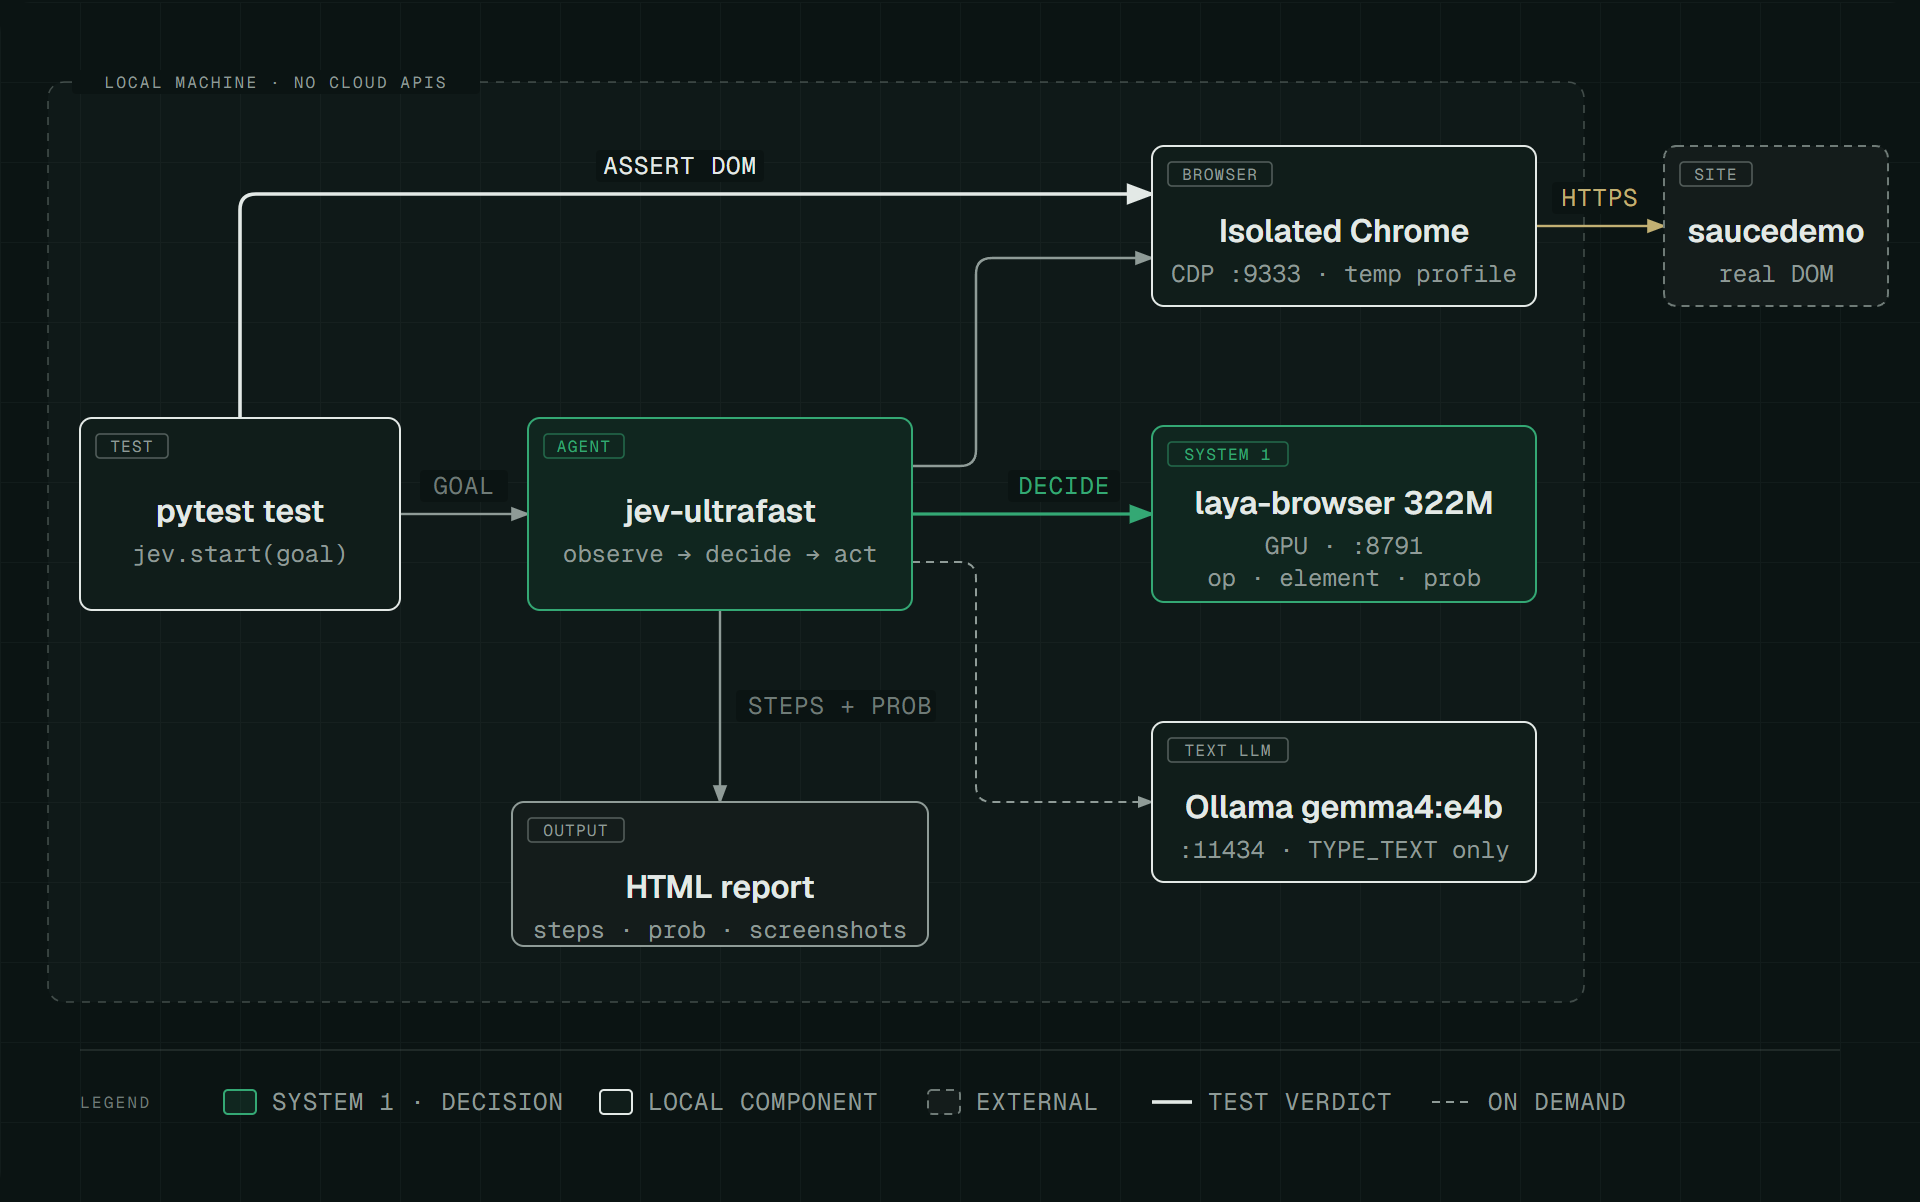
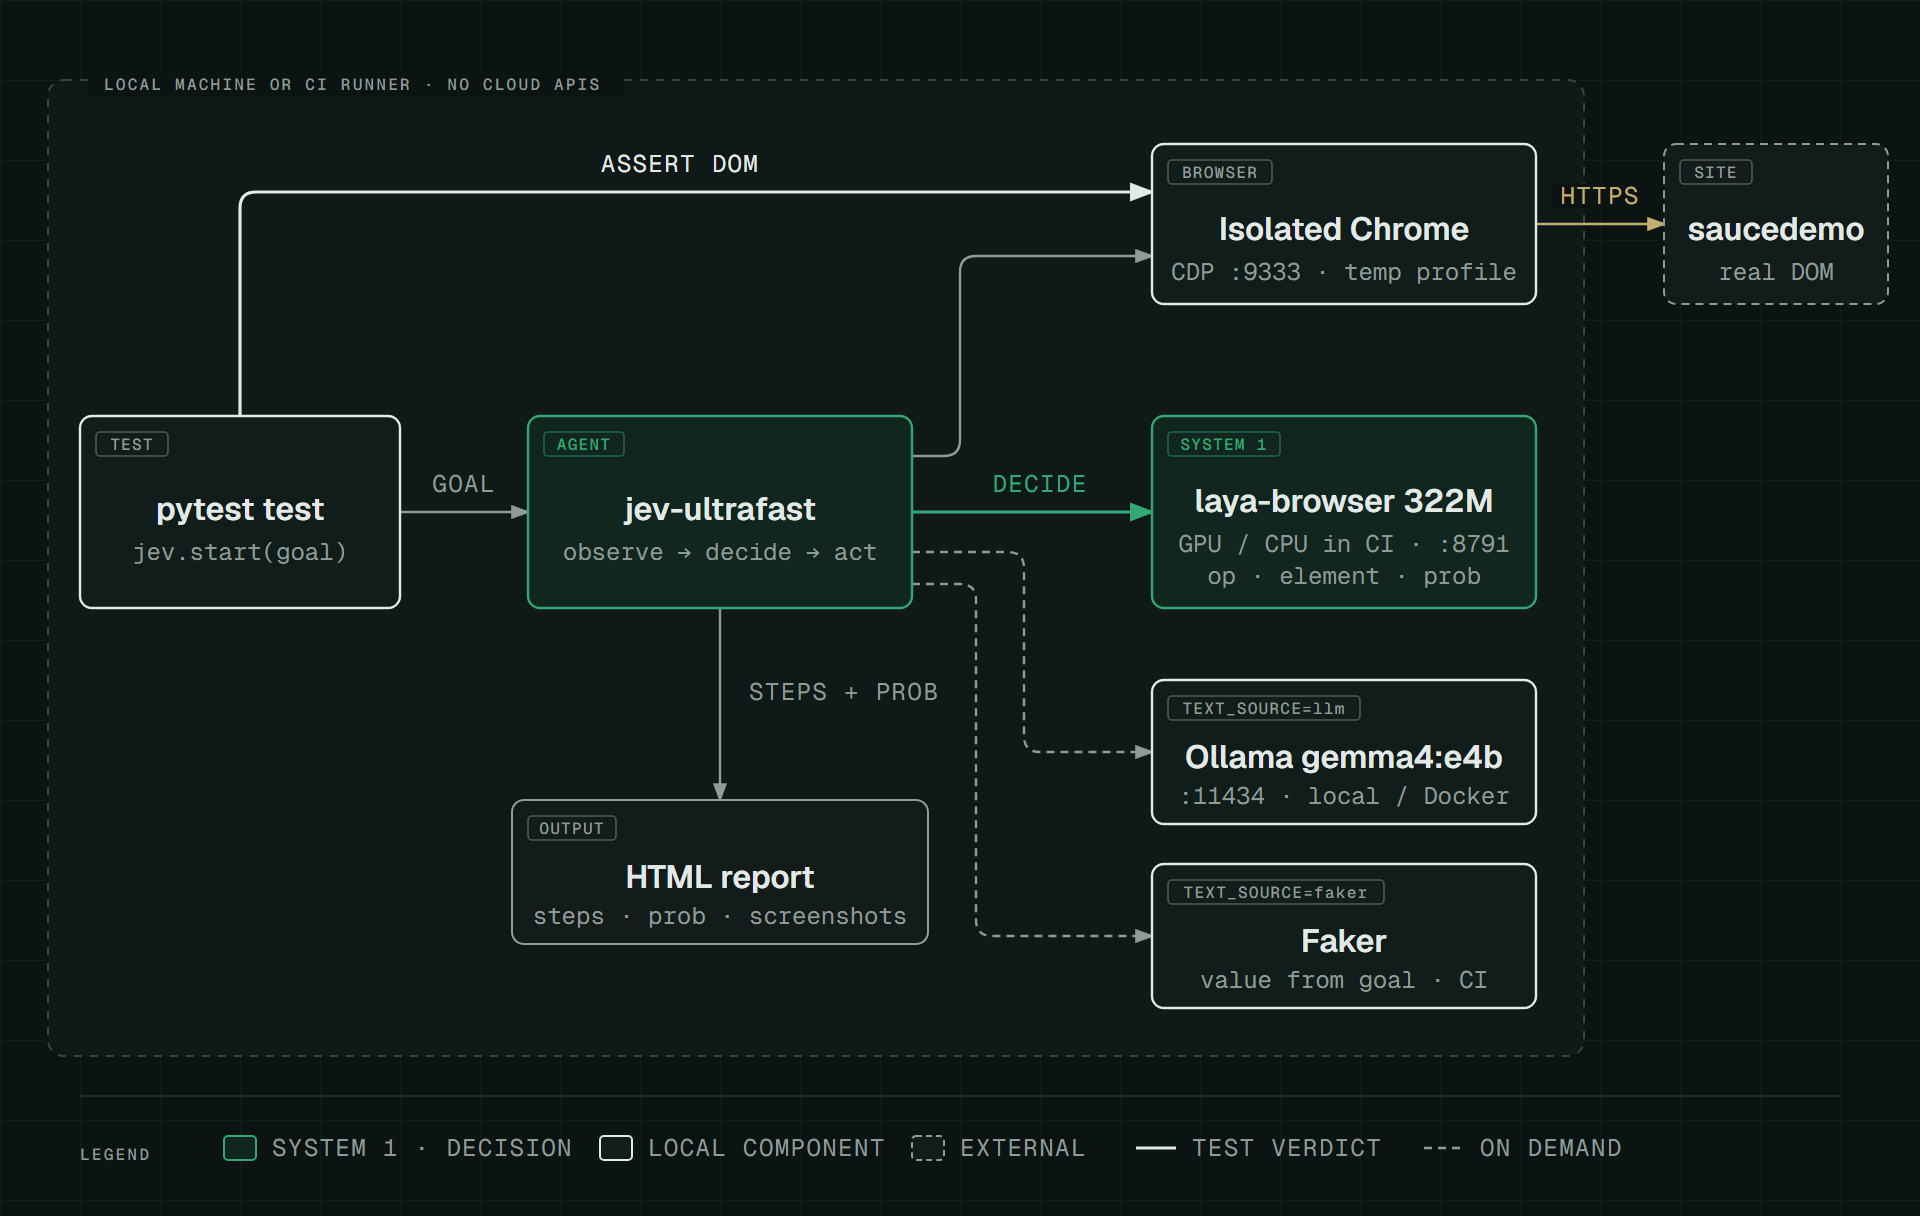
docs: architecture diagram shows the gemma / Faker split and CPU in CI
Adds docs/media/architecture.html, the source of both PNGs.

diff --git a/docs/media/architecture.html b/docs/media/architecture.html
@@ -1,0 +1,190 @@
+<!DOCTYPE html>
+<!-- Source of architecture.png (preferredColorScheme=1) and architecture-dark.png (preferredColorScheme=0):
+     chrome --headless --hide-scrollbars --force-device-scale-factor=2 --window-size=960,608 --virtual-time-budget=5000
+     --blink-settings=preferredColorScheme=1 --screenshot=architecture.png architecture.html -->
+<!-- The virtual time budget lets the Google Fonts load before the screenshot. -->
+<html lang="en">
+<head>
+<meta charset="utf-8">
+<title>jev-ultrafast UI tests: architecture</title>
+<link href="https://fonts.googleapis.com/css2?family=Geist:wght@400;500;600&family=Geist+Mono:wght@400;500;600&display=swap" rel="stylesheet">
+<style>
+  :root {
+    --paper: #f3f6f4; --grid: #e9ecea; --frame: #eef1ef; --frame-stroke: #b9c0bd;
+    --ink: #0b1413; --muted: #4d5a55; --soft: #6b7772;
+    --node: #ffffff; --ext: #e9edeb; --accent: #1f7a50; --accent-tint: #e0ebe5; --link: #7d6a2c;
+  }
+  @media (prefers-color-scheme: dark) {
+    :root {
+      --paper: #0b1413; --grid: #121c1b; --frame: #0f1918; --frame-stroke: #3a4543;
+      --ink: #e3e9e6; --muted: #8f9b97; --soft: #7d8985;
+      --node: #101d1a; --ext: #141c1b; --accent: #34a874; --accent-tint: #10261f; --link: #c2b073;
+    }
+  }
+  html, body { margin: 0; background: var(--paper); }
+  svg { display: block; width: 960px; height: 608px; }
+  .name { font: 600 16px 'Geist', sans-serif; fill: var(--ink); text-anchor: middle; }
+  .sub { font: 400 12px 'Geist Mono', monospace; fill: var(--muted); text-anchor: middle; }
+  .tag { font: 500 8px 'Geist Mono', monospace; fill: var(--muted); letter-spacing: 0.08em; text-anchor: middle; }
+  .tag-box { fill: none; stroke: var(--muted); stroke-opacity: 0.5; stroke-width: 0.8; }
+  .label { font: 400 12px 'Geist Mono', monospace; fill: var(--muted); letter-spacing: 0.06em; text-anchor: middle; }
+  .mask { fill: var(--frame); }
+  .eyebrow { font: 500 8px 'Geist Mono', monospace; fill: var(--muted); letter-spacing: 0.14em; }
+  .legend { font: 400 12px 'Geist Mono', monospace; fill: var(--muted); letter-spacing: 0.06em; }
+  .wire { fill: none; stroke: var(--muted); stroke-width: 1.2; }
+  .on-demand { stroke-dasharray: 4 3; }
+  .focal .tag, .focal .label { fill: var(--accent); }
+  .focal .tag-box { stroke: var(--accent); }
+</style>
+</head>
+<body>
+<svg viewBox="0 0 960 608" xmlns="http://www.w3.org/2000/svg" role="img"
+     aria-labelledby="architecture-title architecture-desc">
+  <title id="architecture-title">jev-ultrafast UI tests: architecture</title>
+  <desc id="architecture-desc">A pytest test gives jev-ultrafast a goal; the agent asks laya-browser for every decision,
+    gets field text from Ollama gemma4:e4b locally or from Faker in CI (TEXT_SOURCE), acts in an isolated Chrome on
+    saucedemo, and writes steps with probabilities to the HTML report; the test asserts on the real DOM.</desc>
+  <defs>
+    <pattern id="architecture-grid" width="40" height="40" patternUnits="userSpaceOnUse">
+      <path d="M40 0 H0 V40" fill="none" stroke="var(--grid)" stroke-width="1"/>
+    </pattern>
+    <marker id="architecture-arrow" markerWidth="8" markerHeight="6" refX="7" refY="3" orient="auto">
+      <polygon points="0 0, 8 3, 0 6" fill="var(--muted)"/>
+    </marker>
+    <marker id="architecture-arrow-ink" markerWidth="8" markerHeight="6" refX="7" refY="3" orient="auto">
+      <polygon points="0 0, 8 3, 0 6" fill="var(--ink)"/>
+    </marker>
+    <marker id="architecture-arrow-accent" markerWidth="8" markerHeight="6" refX="7" refY="3" orient="auto">
+      <polygon points="0 0, 8 3, 0 6" fill="var(--accent)"/>
+    </marker>
+    <marker id="architecture-arrow-link" markerWidth="8" markerHeight="6" refX="7" refY="3" orient="auto">
+      <polygon points="0 0, 8 3, 0 6" fill="var(--link)"/>
+    </marker>
+  </defs>
+
+  <rect width="960" height="608" fill="var(--paper)"/>
+  <rect width="960" height="608" fill="url(#architecture-grid)"/>
+
+  <!-- Boundary: everything below runs on one machine, a laptop or a CI runner -->
+  <rect x="24" y="40" width="768" height="488" rx="8" fill="var(--frame)" stroke="var(--frame-stroke)"
+        stroke-width="1" stroke-dasharray="4 4"/>
+  <rect x="44" y="36" width="268" height="12" fill="var(--paper)"/>
+  <text class="eyebrow" x="52" y="45">LOCAL MACHINE OR CI RUNNER · NO CLOUD APIS</text>
+
+  <!-- Connectors first, so the boxes paint over their ends -->
+  <path class="wire" d="M120,208 V104 Q120,96 128,96 H576" style="stroke: var(--ink); stroke-width: 1.6"
+        marker-end="url(#architecture-arrow-ink)"/>
+  <rect class="mask" x="296" y="76" width="88" height="12"/>
+  <text class="label" x="340" y="86" style="fill: var(--ink)">ASSERT DOM</text>
+
+  <path class="wire" d="M200,256 H264" marker-end="url(#architecture-arrow)"/>
+  <rect class="mask" x="212" y="236" width="40" height="12"/>
+  <text class="label" x="232" y="246">GOAL</text>
+
+  <path class="wire" d="M456,228 H472 Q480,228 480,220 V136 Q480,128 488,128 H576" marker-end="url(#architecture-arrow)"/>
+
+  <g class="focal">
+    <path class="wire" d="M456,256 H576" style="stroke: var(--accent); stroke-width: 1.6"
+          marker-end="url(#architecture-arrow-accent)"/>
+    <rect class="mask" x="492" y="236" width="56" height="12"/>
+    <text class="label" x="520" y="246">DECIDE</text>
+  </g>
+
+  <!-- TEXT_SOURCE picks one of the two text sources per run -->
+  <path class="wire on-demand" d="M456,276 H504 Q512,276 512,284 V368 Q512,376 520,376 H576"
+        marker-end="url(#architecture-arrow)"/>
+  <path class="wire on-demand" d="M456,292 H480 Q488,292 488,300 V460 Q488,468 496,468 H576"
+        marker-end="url(#architecture-arrow)"/>
+
+  <path class="wire" d="M360,304 V400" marker-end="url(#architecture-arrow)"/>
+  <rect class="mask" x="372" y="340" width="100" height="12"/>
+  <text class="label" x="422" y="350">STEPS + PROB</text>
+
+  <path class="wire" d="M768,112 H832" style="stroke: var(--link)" marker-end="url(#architecture-arrow-link)"/>
+  <rect x="776" y="92" width="48" height="12" fill="var(--paper)"/>
+  <text class="label" x="800" y="102" style="fill: var(--link)">HTTPS</text>
+
+  <!-- Nodes -->
+  <g>
+    <rect x="40" y="208" width="160" height="96" rx="6" fill="var(--node)" stroke="var(--ink)" stroke-width="1.2"/>
+    <rect class="tag-box" x="48" y="216" width="36" height="12" rx="2"/>
+    <text class="tag" x="66" y="225">TEST</text>
+    <text class="name" x="120" y="260">pytest test</text>
+    <text class="sub" x="120" y="280">jev.start(goal)</text>
+  </g>
+
+  <g class="focal">
+    <rect x="264" y="208" width="192" height="96" rx="6" fill="var(--accent-tint)" stroke="var(--accent)" stroke-width="1.2"/>
+    <rect class="tag-box" x="272" y="216" width="40" height="12" rx="2"/>
+    <text class="tag" x="292" y="225">AGENT</text>
+    <text class="name" x="360" y="260">jev-ultrafast</text>
+    <text class="sub" x="360" y="280">observe → decide → act</text>
+  </g>
+
+  <g>
+    <rect x="576" y="72" width="192" height="80" rx="6" fill="var(--node)" stroke="var(--ink)" stroke-width="1.2"/>
+    <rect class="tag-box" x="584" y="80" width="52" height="12" rx="2"/>
+    <text class="tag" x="610" y="89">BROWSER</text>
+    <text class="name" x="672" y="120">Isolated Chrome</text>
+    <text class="sub" x="672" y="140">CDP :9333 · temp profile</text>
+  </g>
+
+  <g>
+    <rect x="832" y="72" width="112" height="80" rx="6" fill="var(--ext)" stroke="var(--muted)" stroke-width="1"
+          stroke-dasharray="4 3"/>
+    <rect class="tag-box" x="840" y="80" width="36" height="12" rx="2"/>
+    <text class="tag" x="858" y="89">SITE</text>
+    <text class="name" x="888" y="120">saucedemo</text>
+    <text class="sub" x="888" y="140">real DOM</text>
+  </g>
+
+  <g class="focal">
+    <rect x="576" y="208" width="192" height="96" rx="6" fill="var(--accent-tint)" stroke="var(--accent)" stroke-width="1.2"/>
+    <rect class="tag-box" x="584" y="216" width="56" height="12" rx="2"/>
+    <text class="tag" x="612" y="225">SYSTEM 1</text>
+    <text class="name" x="672" y="256">laya-browser 322M</text>
+    <text class="sub" x="672" y="276">GPU / CPU in CI · :8791</text>
+    <text class="sub" x="672" y="292">op · element · prob</text>
+  </g>
+
+  <g>
+    <rect x="576" y="340" width="192" height="72" rx="6" fill="var(--node)" stroke="var(--ink)" stroke-width="1.2"/>
+    <rect class="tag-box" x="584" y="348" width="96" height="12" rx="2"/>
+    <text class="tag" x="632" y="357">TEXT_SOURCE=llm</text>
+    <text class="name" x="672" y="384">Ollama gemma4:e4b</text>
+    <text class="sub" x="672" y="402">:11434 · local / Docker</text>
+  </g>
+
+  <g>
+    <rect x="576" y="432" width="192" height="72" rx="6" fill="var(--node)" stroke="var(--ink)" stroke-width="1.2"/>
+    <rect class="tag-box" x="584" y="440" width="108" height="12" rx="2"/>
+    <text class="tag" x="638" y="449">TEXT_SOURCE=faker</text>
+    <text class="name" x="672" y="476">Faker</text>
+    <text class="sub" x="672" y="494">value from goal · CI</text>
+  </g>
+
+  <g>
+    <rect x="256" y="400" width="208" height="72" rx="6" fill="var(--ext)" stroke="var(--muted)" stroke-width="1"/>
+    <rect class="tag-box" x="264" y="408" width="44" height="12" rx="2"/>
+    <text class="tag" x="286" y="417">OUTPUT</text>
+    <text class="name" x="360" y="444">HTML report</text>
+    <text class="sub" x="360" y="462">steps · prob · screenshots</text>
+  </g>
+
+  <!-- Legend -->
+  <line x1="40" y1="548" x2="920" y2="548" stroke="var(--frame-stroke)" stroke-opacity="0.6" stroke-width="0.8"/>
+  <text class="eyebrow" x="40" y="580">LEGEND</text>
+  <rect x="112" y="568" width="16" height="12" rx="2" fill="var(--accent-tint)" stroke="var(--accent)" stroke-width="1"/>
+  <text class="legend" x="136" y="578">SYSTEM 1 · DECISION</text>
+  <rect x="300" y="568" width="16" height="12" rx="2" fill="var(--node)" stroke="var(--ink)" stroke-width="1"/>
+  <text class="legend" x="324" y="578">LOCAL COMPONENT</text>
+  <rect x="456" y="568" width="16" height="12" rx="2" fill="var(--ext)" stroke="var(--muted)" stroke-width="1"
+        stroke-dasharray="3 2"/>
+  <text class="legend" x="480" y="578">EXTERNAL</text>
+  <line x1="568" y1="574" x2="588" y2="574" stroke="var(--ink)" stroke-width="1.6"/>
+  <text class="legend" x="596" y="578">TEST VERDICT</text>
+  <line x1="712" y1="574" x2="732" y2="574" stroke="var(--muted)" stroke-width="1.2" stroke-dasharray="4 3"/>
+  <text class="legend" x="740" y="578">ON DEMAND</text>
+</svg>
+</body>
+</html>

diff --git a/README.md b/README.md
@@ -66,7 +66,7 @@ frameworks are still more reliable. This project is a working template and a tes
 
 <picture>
   <source media="(prefers-color-scheme: dark)" srcset="docs/media/architecture-dark.png">
-  <img alt="Architecture: a pytest goal goes to the jev-ultrafast agent, which asks laya-browser on the GPU for each decision, calls Ollama only to type text and acts in an isolated Chrome on saucedemo.com; the verdict is an assertion on the real DOM, and every step with its probability goes to the HTML report." src="docs/media/architecture.png">
+  <img alt="Architecture: a pytest goal goes to the jev-ultrafast agent, which asks laya-browser (GPU, CPU in CI) for each decision, gets text to type from Ollama locally or from Faker in CI (TEXT_SOURCE) and acts in an isolated Chrome on saucedemo.com; the verdict is an assertion on the real DOM, and every step with its probability goes to the HTML report." src="docs/media/architecture.png">
 </picture>
 
 | Component | What it is | Why |
